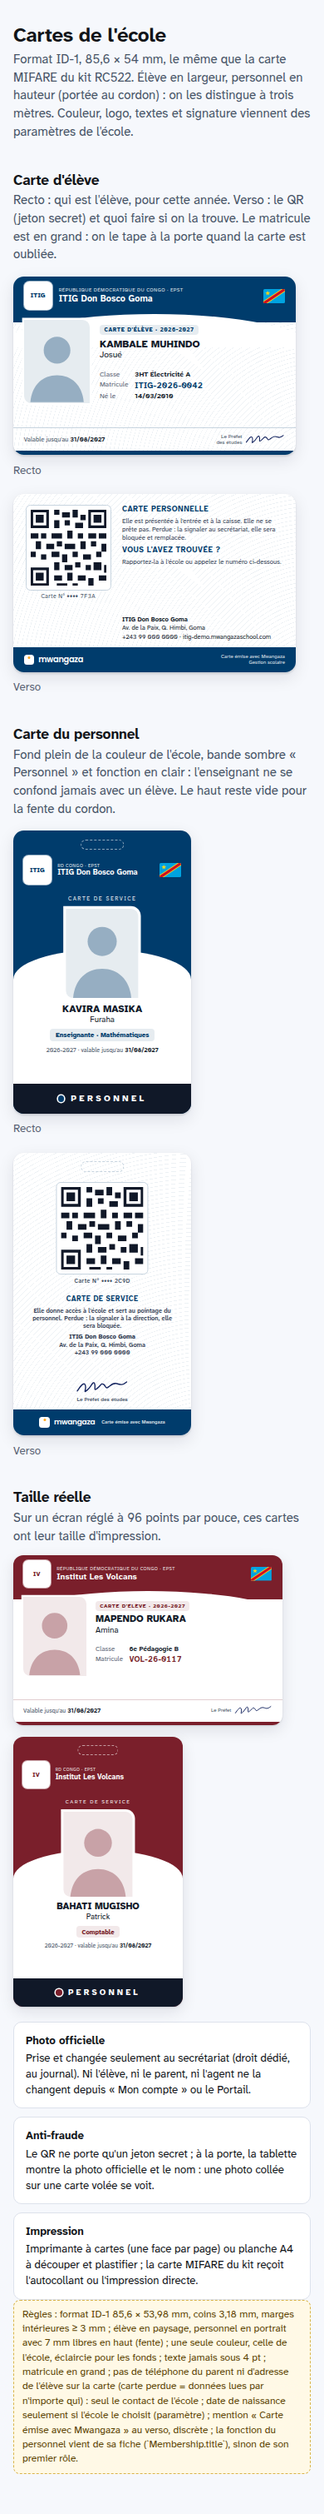
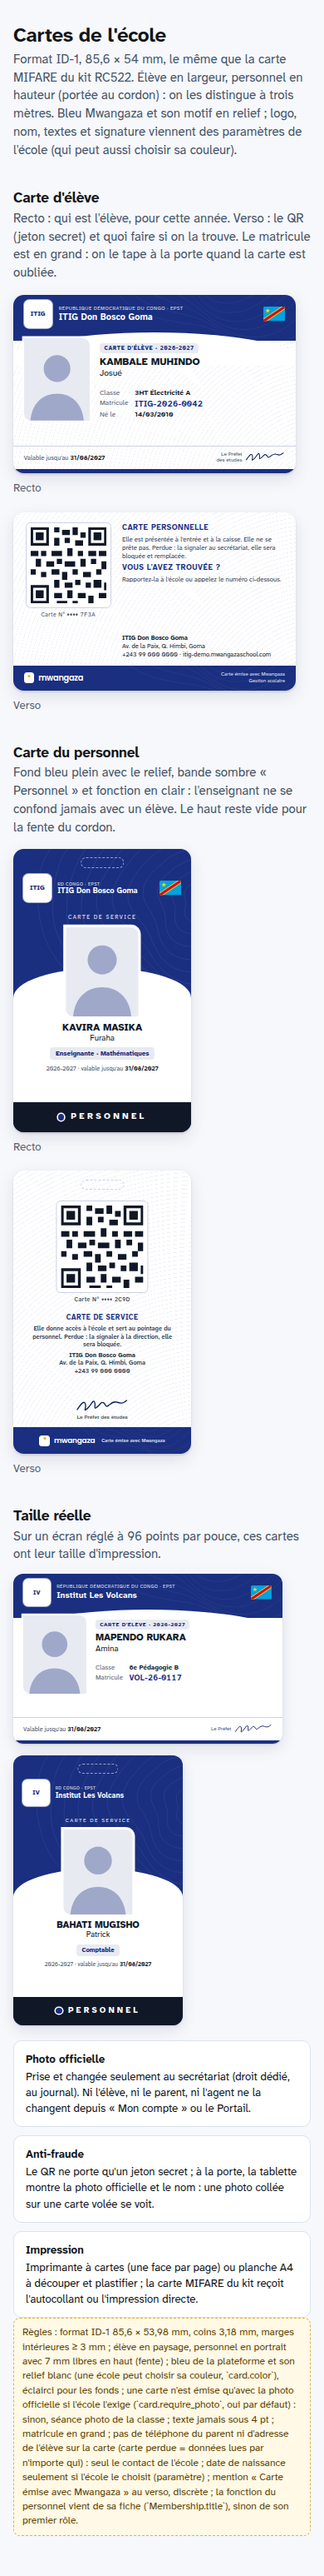
docs(lot-10): cartes au bleu Mwangaza, séance photo par classe, son et vibration réglables
Choix validés : photo sur la carte même sans consentement, matricule sans
section (clé de contrôle, MAT.1), profils au lot 12 (PROF.1).

Changed region(s): [[0.0308, 0.0, 0.9846, 0.9967]]

diff --git a/maquettes/gestion/cartes-seance-photo.html b/maquettes/gestion/cartes-seance-photo.html
@@ -1,0 +1,51 @@
+<!DOCTYPE html>
+<html lang="fr"><head><meta charset="utf-8"><meta name="viewport" content="width=device-width, initial-scale=1">
+<title>Séance photo — Mwangaza (maquette)</title>
+<link rel="stylesheet" href="../assets/styles.css"></head>
+<body><div class="app"><aside class="side">
+  <div class="brand"><span class="mark"></span><b>Mwangaza</b></div>
+  <div class="school"><b>ITIG Don Bosco</b>Goma · Année 2026-2027</div>
+  <nav class="nav"><div class="navlabel">Pilotage</div><a class="" href="tableau-de-bord.html"><svg class="ic" viewBox="0 0 24 24" fill="none" stroke="currentColor" stroke-width="1.8" stroke-linecap="round" stroke-linejoin="round"><path d="M3 10.5 12 3l9 7.5V21h-6v-6H9v6H3z"/></svg><span>Tableau de bord</span></a><div class="navlabel">Scolarité</div><a class="" href="eleves-liste.html"><svg class="ic" viewBox="0 0 24 24" fill="none" stroke="currentColor" stroke-width="1.8" stroke-linecap="round" stroke-linejoin="round"><circle cx="9" cy="8" r="3.5"/><path d="M2.5 20c.8-3.6 3.4-5.5 6.5-5.5s5.7 1.9 6.5 5.5"/><circle cx="17" cy="9" r="2.6"/><path d="M16.5 14.6c2.4.2 4.2 1.9 5 4.9"/></svg><span>Élèves</span></a><a class="" href="notes-saisie.html"><svg class="ic" viewBox="0 0 24 24" fill="none" stroke="currentColor" stroke-width="1.8" stroke-linecap="round" stroke-linejoin="round"><path d="M4 4.5A2.5 2.5 0 0 1 6.5 2H20v17H6.5A2.5 2.5 0 0 0 4 21.5z"/><path d="M4 19V4.5"/></svg><span>Notes et bulletins</span><span class="soon">V1.2</span></a><a class="on" href="cartes.html"><svg class="ic" viewBox="0 0 24 24" fill="none" stroke="currentColor" stroke-width="1.8" stroke-linecap="round" stroke-linejoin="round"><rect x="3" y="6" width="18" height="14" rx="2"/><path d="M3 10h18M16 15h2"/></svg><span>Cartes</span></a><a class="" href="presences-pointage-qr.html"><svg class="ic" viewBox="0 0 24 24" fill="none" stroke="currentColor" stroke-width="1.8" stroke-linecap="round" stroke-linejoin="round"><circle cx="12" cy="12" r="9"/><path d="M12 7v5l3 2"/></svg><span>Présences</span></a><div class="navlabel">Finances</div><a class="" href="caisse-encaissement.html"><svg class="ic" viewBox="0 0 24 24" fill="none" stroke="currentColor" stroke-width="1.8" stroke-linecap="round" stroke-linejoin="round"><rect x="2.5" y="6" width="19" height="12" rx="2"/><circle cx="12" cy="12" r="2.8"/><path d="M6 9.5v5M18 9.5v5"/></svg><span>Caisse</span></a><a class="" href="impayes.html"><svg class="ic" viewBox="0 0 24 24" fill="none" stroke="currentColor" stroke-width="1.8" stroke-linecap="round" stroke-linejoin="round"><path d="M12 3 2 20h20z"/><path d="M12 10v4.5M12 17.5v.1"/></svg><span>Impayés</span></a><a class="" href="frais-baremes.html"><svg class="ic" viewBox="0 0 24 24" fill="none" stroke="currentColor" stroke-width="1.8" stroke-linecap="round" stroke-linejoin="round"><path d="M3 12V4h8l10 10-8 8z"/><circle cx="7.5" cy="8" r="1.4"/></svg><span>Frais et barèmes</span></a><a class="" href="annulations.html"><svg class="ic" viewBox="0 0 24 24" fill="none" stroke="currentColor" stroke-width="1.8" stroke-linecap="round" stroke-linejoin="round"><path d="M9 14 4 9l5-5"/><path d="M4 9h10a6 6 0 0 1 0 12h-3"/></svg><span>Annulations</span><span class="count">2</span></a><a class="" href="clotures-caisse.html"><svg class="ic" viewBox="0 0 24 24" fill="none" stroke="currentColor" stroke-width="1.8" stroke-linecap="round" stroke-linejoin="round"><rect x="4.5" y="10.5" width="15" height="10" rx="2"/><path d="M8 10.5V7a4 4 0 0 1 8 0v3.5"/></svg><span>Clôtures de caisse</span></a><a class="" href="depenses.html"><svg class="ic" viewBox="0 0 24 24" fill="none" stroke="currentColor" stroke-width="1.8" stroke-linecap="round" stroke-linejoin="round"><path d="M4 7.5h14a2 2 0 0 1 2 2V18a2 2 0 0 1-2 2H5a1 1 0 0 1-1-1z"/><path d="M4 7.5 15 4v3.5M15.5 13.5h2"/></svg><span>Dépenses</span></a><a class="" href="budget.html"><svg class="ic" viewBox="0 0 24 24" fill="none" stroke="currentColor" stroke-width="1.8" stroke-linecap="round" stroke-linejoin="round"><path d="M4 4v16h16"/><path d="M8.5 16v-4M12.5 16V8M16.5 16v-6"/></svg><span>Budget et rapports</span></a><a class="" href="credits-eleves.html"><svg class="ic" viewBox="0 0 24 24" fill="none" stroke="currentColor" stroke-width="1.8" stroke-linecap="round" stroke-linejoin="round"><circle cx="12" cy="12" r="9"/><path d="M12 7.5v9M7.5 12h9"/></svg><span>Crédits d'élèves</span><span class="count">3</span></a><a class="" href="paie.html"><svg class="ic" viewBox="0 0 24 24" fill="none" stroke="currentColor" stroke-width="1.8" stroke-linecap="round" stroke-linejoin="round"><rect x="3" y="6" width="18" height="14" rx="2"/><path d="M3 10h18M16 15h2"/></svg><span>Personnel et paie</span><span class="soon">V1.1</span></a><div class="navlabel">Communication</div><a class="" href="annonces-personnel.html"><svg class="ic" viewBox="0 0 24 24" fill="none" stroke="currentColor" stroke-width="1.8" stroke-linecap="round" stroke-linejoin="round"><path d="M6 16V11a6 6 0 0 1 12 0v5l2 2H4z"/><path d="M10 20a2 2 0 0 0 4 0"/></svg><span>Annonces au personnel</span></a><a class="" href="calendrier.html"><svg class="ic" viewBox="0 0 24 24" fill="none" stroke="currentColor" stroke-width="1.8" stroke-linecap="round" stroke-linejoin="round"><rect x="3.5" y="5" width="17" height="15.5" rx="2"/><path d="M3.5 10h17M8 3v4M16 3v4"/></svg><span>Calendrier</span></a><a class="" href="annonces.html"><svg class="ic" viewBox="0 0 24 24" fill="none" stroke="currentColor" stroke-width="1.8" stroke-linecap="round" stroke-linejoin="round"><path d="M3 10v4l12 5V5z"/><path d="M15 9a3 3 0 0 1 0 6M6 14.5 7.5 20h3l-1.3-4.5"/></svg><span>Annonces</span></a><a class="" href="convocations.html"><svg class="ic" viewBox="0 0 24 24" fill="none" stroke="currentColor" stroke-width="1.8" stroke-linecap="round" stroke-linejoin="round"><path d="M6 3h9l4 4v14H6z"/><path d="M14 3v5h5M9 13h6M9 17h6"/></svg><span>Convocations</span></a><a class="" href="changements-coordonnees.html"><svg class="ic" viewBox="0 0 24 24" fill="none" stroke="currentColor" stroke-width="1.8" stroke-linecap="round" stroke-linejoin="round"><path d="M4 13h4l2 3h4l2-3h4"/><path d="M5.5 5h13L20 13v6H4v-6z"/></svg><span>Demandes des parents</span><span class="count">4</span></a><div class="navlabel">Paramètres</div><a class="" href="parametres-ecole.html"><svg class="ic" viewBox="0 0 24 24" fill="none" stroke="currentColor" stroke-width="1.8" stroke-linecap="round" stroke-linejoin="round"><circle cx="12" cy="12" r="3.2"/><path d="M12 2.5v3M12 18.5v3M2.5 12h3M18.5 12h3M5.3 5.3l2.1 2.1M16.6 16.6l2.1 2.1M5.3 18.7l2.1-2.1M16.6 7.4l2.1-2.1"/></svg><span>Paramètres de l'école</span></a><a class="" href="organisation-scolaire.html"><svg class="ic" viewBox="0 0 24 24" fill="none" stroke="currentColor" stroke-width="1.8" stroke-linecap="round" stroke-linejoin="round"><path d="M2 9 12 4l10 5-10 5z"/><path d="M6 11v5c0 1.5 3 3 6 3s6-1.5 6-3v-5"/></svg><span>Organisation scolaire</span></a><a class="" href="personnel-comptes.html"><svg class="ic" viewBox="0 0 24 24" fill="none" stroke="currentColor" stroke-width="1.8" stroke-linecap="round" stroke-linejoin="round"><circle cx="10" cy="8" r="3.5"/><path d="M3.5 20c.8-3.6 3.4-5.5 6.5-5.5 1.6 0 3 .4 4.2 1.2"/><path d="M18 14v6M15 17h6"/></svg><span>Comptes du personnel</span></a><a class="" href="roles-permissions.html"><svg class="ic" viewBox="0 0 24 24" fill="none" stroke="currentColor" stroke-width="1.8" stroke-linecap="round" stroke-linejoin="round"><path d="M12 3 4 6v6c0 5 3.5 8 8 9 4.5-1 8-4 8-9V6z"/></svg><span>Rôles et permissions</span></a><a class="" href="appareils-synchro.html"><svg class="ic" viewBox="0 0 24 24" fill="none" stroke="currentColor" stroke-width="1.8" stroke-linecap="round" stroke-linejoin="round"><path d="M20 11a8 8 0 0 0-14.3-4.3L4 8.5"/><path d="M4 4v4.5h4.5"/><path d="M4 13a8 8 0 0 0 14.3 4.3L20 15.5"/><path d="M20 20v-4.5h-4.5"/></svg><span>Appareils et synchro</span></a><a class="" href="journal-audit.html"><svg class="ic" viewBox="0 0 24 24" fill="none" stroke="currentColor" stroke-width="1.8" stroke-linecap="round" stroke-linejoin="round"><rect x="5" y="3.5" width="14" height="17" rx="2"/><path d="M9 3.5V6h6V3.5M9 11h6M9 15h4"/></svg><span>Journal d'audit</span></a></nav>
+  <div class="foot">Version 1.0 · Aide et guide</div>
+</aside><div class="main"><header class="top">
+  <div class="search"><svg class="ic" width="18" height="18" viewBox="0 0 24 24" fill="none" stroke="currentColor" stroke-width="1.8" stroke-linecap="round" stroke-linejoin="round"><circle cx="11" cy="11" r="7"/><path d="m20 20-4-4"/></svg><span>Rechercher un élève, un matricule, un reçu…</span><span class="kbd" style="margin-left:auto">Ctrl K</span></div>
+  <div class="sync online"><span class="dot"></span>En ligne · à jour</div>
+  <div class="user"><span class="hide-m" style="text-align:right"><b>Masika Furaha</b><br><span class="muted small">Secrétaire</span></span><span class="avatar">MF</span></div>
+</header><main class="content">
+<style>
+.shot{position:relative;width:100%;max-width:420px;aspect-ratio:4/5;background:#1d2230;border-radius:0 18px 0 18px;overflow:hidden;margin:0 auto}
+.shot .k-face{background:transparent;position:absolute;left:50%;top:13%;width:46%;aspect-ratio:3/4;transform:translateX(-50%);border:3px dashed rgba(255,255,255,.75);border-radius:50%}
+.shot .k-shoulders{background:transparent;position:absolute;left:14%;right:14%;bottom:-6%;height:30%;border:3px dashed rgba(255,255,255,.55);border-bottom:0;border-radius:50% 50% 0 0/100% 100% 0 0}
+.shot .tip{position:absolute;left:0;right:0;top:12px;text-align:center;color:#fff;font-size:.85rem}
+.shot .k-flip{position:absolute;right:12px;bottom:12px;width:44px;height:44px;border-radius:999px;background:rgba(255,255,255,.16);display:grid;place-items:center;color:#fff}
+.current{display:flex;align-items:center;justify-content:space-between;gap:12px;width:100%;max-width:420px;margin:0 auto 12px}
+.current b{display:block;font-size:1.3rem;line-height:1.2}
+.current .pill{white-space:nowrap}
+.actions{display:grid;grid-template-columns:minmax(0,2fr) minmax(0,1fr);gap:10px;width:100%;max-width:420px;margin:14px auto 0}
+.after{display:flex;gap:12px;align-items:center;width:100%;max-width:420px;margin:16px auto 0;padding-top:14px;border-top:1px solid var(--line-soft)}
+.after .thumb{width:56px;height:70px;border-radius:0 10px 0 10px;background:var(--lake-50);flex:none}
+.progress{height:8px;border-radius:999px;background:var(--line-soft);overflow:hidden;margin:6px 0 14px}
+.progress i{display:block;height:100%;width:69%;background:var(--lake);border-radius:999px}
+.list .now{background:var(--lake-50);border-radius:10px}
+</style>
+<div class="pagehead"><div><h1>Séance photo</h1><p>3HT Électricité A · 39 élèves · 27 photos prises, 12 à prendre</p></div><div class="row" style="gap:8px;flex-wrap:wrap"><span class="seg"><span class="on">Élèves</span><span>Personnel</span></span><select class="inp" style="width:auto;min-width:190px"><option>3HT Électricité A</option></select><a class="btn" href="cartes.html">Terminer</a></div></div>
+<div class="banner info" style="margin-bottom:16px"><svg class="ic" width="20" height="20" viewBox="0 0 24 24" fill="none" stroke="currentColor" stroke-width="1.8" stroke-linecap="round" stroke-linejoin="round"><circle cx="12" cy="12" r="9"/><path d="M12 8v5M12 16.5v.01"/></svg><span>12 élèves de cette classe n'ont pas de photo : leur carte ne peut pas être imprimée. Ordre de la liste de classe ; un absent est passé et reste « à prendre ».</span></div>
+<div class="grid" style="grid-template-columns:minmax(0,1.1fr) minmax(0,1fr)">
+<div class="card"><div class="bd">
+  <div class="current"><div><span class="small muted">28 sur 39</span><b>MAPENDO RUKARA Amina</b><span class="small muted">Matricule ITIG-2026-0117</span></div><span class="pill warn">À prendre</span></div>
+  <div class="shot"><div class="k-face"></div><div class="k-shoulders"></div><div class="tip">Visage dans l'ovale, fond clair, sans lunettes de soleil</div><span class="k-flip"><svg class="ic" width="20" height="20" viewBox="0 0 24 24" fill="none" stroke="currentColor" stroke-width="1.8" stroke-linecap="round" stroke-linejoin="round"><path d="M4 7h3l2-3h6l2 3h3v12H4z"/><path d="M9 13a3 3 0 0 0 5.6 1.5M15 11a3 3 0 0 0-5.6-1.5"/></svg></span></div>
+  <div class="actions"><a class="btn primary lg" href="#"><svg class="ic" width="18" height="18" viewBox="0 0 24 24" fill="none" stroke="currentColor" stroke-width="1.8" stroke-linecap="round" stroke-linejoin="round"><path d="M4 7h3l2-3h6l2 3h3v12H4z"/><circle cx="12" cy="13" r="3.5"/></svg>Prendre la photo</a><a class="btn lg" href="#">Absent, passer</a></div>
+  <div class="after"><span class="thumb"></span><div style="flex:1;min-width:0"><b>Kambale Muhindo Josué</b><br><span class="small muted">Photo gardée · envoyée</span></div><a class="btn sm ghost" href="#">Reprendre</a></div>
+</div></div>
+<div class="col">
+  <div class="card"><div class="bd"><div class="row" style="justify-content:space-between"><b>Avancement</b><span class="small muted">27 / 39</span></div><div class="progress"><i></i></div><div class="row" style="justify-content:space-between;flex-wrap:wrap;gap:8px"><span class="small muted">En attente d'envoi : 2 photos</span><span class="pill ok">En ligne</span></div></div></div>
+  <div class="card" style="margin-top:16px"><div class="hd"><h2>Élèves de la classe</h2></div><div class="bd list">
+    <div><span class="who"><span class="avatar">KJ</span><span><b>Kambale Muhindo Josué</b><br><span class="small muted">ITIG-2026-0042</span></span></span><span class="pill ok">Photo prise</span></div>
+    <div><span class="who"><span class="avatar">KN</span><span><b>Kavira Neema</b><br><span class="small muted">ITIG-2026-0091</span></span></span><span class="pill">Absent, passé</span></div>
+    <div class="now"><span class="who"><span class="avatar">MA</span><span><b>Mapendo Rukara Amina</b><br><span class="small muted">ITIG-2026-0117</span></span></span><span class="pill warn">En cours</span></div>
+    <div><span class="who"><span class="avatar">MP</span><span><b>Mumbere Paluku</b><br><span class="small muted">ITIG-2026-0120</span></span></span><span class="pill warn">À prendre</span></div>
+    <div><span class="who"><span class="avatar">SB</span><span><b>Safari Bahati</b><br><span class="small muted">ITIG-2026-0133</span></span></span><span class="pill">Photo de 2025</span></div>
+  </div></div>
+</div></div>
+<div class="note">Séance photo (6.1, demande du 2026-11-06) : droit `attendance.cards` ; une classe (ou le personnel) dans l'ordre de la liste ; la caméra est demandée au début avec une explication avant la question du navigateur, refusée : marche à suivre pour la réautoriser ; cadre 4:5 avec ovale du visage ; photo réduite sur l'appareil (600 × 750, JPEG) puis ré-encodée par le serveur (métadonnées et position retirées) ; « Garder » enregistre la photo officielle (au journal) et passe au suivant ; envoi dans l'ordre avec file d'attente si le réseau tombe ; une photo changée après l'émission de la carte la marque « à réimprimer » ; son et vibration à la prise selon les réglages de l'appareil ; l'élève, le parent ou l'agent ne changent jamais leur photo.</div>
+</main></div></div></body></html>

diff --git a/maquettes/gestion/cartes-modeles.html b/maquettes/gestion/cartes-modeles.html
@@ -5,8 +5,9 @@
 <style>
 /* Cartes au format ISO/IEC 7810 ID-1 (85,60 × 53,98 mm, coins de 3,18 mm) : celui de la carte
    blanche MIFARE du kit RC522, des imprimantes à cartes et des pochettes à plastifier. Tout est
-   en millimètres : le gabarit WeasyPrint reprend ces règles telles quelles. Seule couleur : celle
-   de l'école (--c, `card.color` ou `primary_color`), éclaircie par color-mix. */
+   en millimètres : le gabarit WeasyPrint reprend ces règles telles quelles. Couleur : le bleu de
+   la plateforme (`PlatformSettings`, bleu Mwangaza) avec son relief blanc ; une école peut choisir
+   la sienne (`card.color`). Éclaircie par color-mix pour les fonds. */
 @font-face{font-family:"Poppins";src:url(../assets/fonts/poppins-latin-600-normal.woff2) format("woff2");font-weight:600}
 .sheet{max-width:1240px;margin:0 auto;padding:28px 16px 48px}
 .sheet h1{font-size:1.6rem;margin:0 0 4px}
@@ -21,7 +22,7 @@
 @media (max-width:599px){.zoom{zoom:1.05}.pair{gap:18px}}
 .real{display:flex;gap:14px;align-items:flex-end;flex-wrap:wrap}
 
-.idc{--c:#003C6C;--on:#FFFFFF;--tint:color-mix(in srgb,var(--c) 10%,#fff);--soft:color-mix(in srgb,var(--c) 22%,#fff);
+.idc{--c:#1A2F80;--relief:url(../assets/relief.svg);--on:#FFFFFF;--tint:color-mix(in srgb,var(--c) 10%,#fff);--soft:color-mix(in srgb,var(--c) 22%,#fff);
   position:relative;width:85.6mm;height:53.98mm;border-radius:3.18mm;overflow:hidden;background:#fff;color:#101828;
   font-family:"Atkinson Hyperlegible Next",Arial,sans-serif;font-size:6.4pt;line-height:1.25;box-shadow:0 1px 2px rgba(16,24,40,.12),0 6px 18px rgba(16,24,40,.10);flex:none}
 .idc.portrait{width:53.98mm;height:85.6mm}
@@ -38,7 +39,7 @@
 .sig{width:16mm;height:5mm}
 
 /* Élève, recto (paysage) */
-.st .band{position:absolute;left:0;right:0;top:0;height:14mm;background:var(--c);color:var(--on);display:flex;gap:2mm;align-items:center;padding:0 3.2mm 2.2mm}
+.st .band{position:absolute;left:0;right:0;top:0;height:14mm;background:var(--c) var(--relief) center/cover;color:var(--on);display:flex;gap:2mm;align-items:center;padding:0 3.2mm 2.2mm}
 .st .band .hl{flex:1;min-width:0}
 .st .band small{display:block;font-size:4.3pt;letter-spacing:.07em;text-transform:uppercase;opacity:.85}
 .st .band b{display:block;font-size:7.6pt;letter-spacing:.01em;white-space:nowrap;overflow:hidden;text-overflow:ellipsis}
@@ -66,12 +67,12 @@
 .back h4{margin:0;font-size:6.6pt;color:var(--c);text-transform:uppercase;letter-spacing:.05em}
 .back p{margin:0;font-size:5.6pt;color:#344054}
 .back .contact{margin-top:auto;font-size:5.4pt;color:#101828;line-height:1.35}
-.back .k-bar{position:absolute;left:0;right:0;bottom:0;height:7.6mm;background:var(--c);color:var(--on);display:flex;align-items:center;justify-content:space-between;padding:0 3.2mm}
+.back .k-bar{position:absolute;left:0;right:0;bottom:0;height:7.6mm;background:var(--c) var(--relief) center/cover;color:var(--on);display:flex;align-items:center;justify-content:space-between;padding:0 3.2mm}
 .back .k-bar .mz{font-size:7pt}
 .back .k-bar small{font-size:4.4pt;opacity:.85;text-align:right;line-height:1.2}
 
 /* Personnel, recto (portrait) : fond plein de la couleur de l'école, bande « PERSONNEL ». */
-.sf{background:var(--c);color:var(--on)}
+.sf{background:var(--c) var(--relief) center/cover;color:var(--on)}
 .slot{position:absolute;left:50%;top:2.6mm;width:13mm;height:3.2mm;transform:translateX(-50%);border:.25mm dashed rgba(255,255,255,.55);border-radius:1.6mm}
 .sf .hd{position:absolute;left:3mm;right:3mm;top:7.6mm;display:flex;align-items:center;gap:1.8mm}
 .sf .hd .hl{flex:1;min-width:0;line-height:1.15}
@@ -97,7 +98,7 @@
 .sb h4{margin:0;font-size:6.2pt;color:var(--c);text-transform:uppercase;letter-spacing:.05em}
 .sb p{margin:0;font-size:5.3pt;color:#344054}
 .sb .signed{margin-top:auto;display:flex;flex-direction:column;align-items:center;font-size:4.6pt;color:#475467}
-.sb .k-bar{position:absolute;left:0;right:0;bottom:0;height:8mm;background:var(--c);color:var(--on);display:flex;align-items:center;justify-content:center;gap:2mm}
+.sb .k-bar{position:absolute;left:0;right:0;bottom:0;height:8mm;background:var(--c) var(--relief) center/cover;color:var(--on);display:flex;align-items:center;justify-content:center;gap:2mm}
 .sb .k-bar .mz{font-size:6.4pt}
 .sb .k-bar small{font-size:4.2pt;opacity:.85}
 
@@ -108,7 +109,7 @@
 <body>
 <main class="sheet">
   <h1>Cartes de l'école</h1>
-  <p class="lead">Format ID-1, 85,6 × 54 mm, le même que la carte MIFARE du kit RC522. Élève en largeur, personnel en hauteur (portée au cordon) : on les distingue à trois mètres. Couleur, logo, textes et signature viennent des paramètres de l'école.</p>
+  <p class="lead">Format ID-1, 85,6 × 54 mm, le même que la carte MIFARE du kit RC522. Élève en largeur, personnel en hauteur (portée au cordon) : on les distingue à trois mètres. Bleu Mwangaza et son motif en relief ; logo, nom, textes et signature viennent des paramètres de l'école (qui peut aussi choisir sa couleur).</p>
 
   <svg width="0" height="0" style="position:absolute" aria-hidden="true">
     <defs>
@@ -159,7 +160,7 @@
   </div>
 
   <h2>Carte du personnel</h2>
-  <p class="lead">Fond plein de la couleur de l'école, bande sombre « Personnel » et fonction en clair : l'enseignant ne se confond jamais avec un élève. Le haut reste vide pour la fente du cordon.</p>
+  <p class="lead">Fond bleu plein avec le relief, bande sombre « Personnel » et fonction en clair : l'enseignant ne se confond jamais avec un élève. Le haut reste vide pour la fente du cordon.</p>
   <div class="pair zoom">
     <figure>
       <div class="idc portrait sf">
@@ -199,14 +200,14 @@
   <h2>Taille réelle</h2>
   <p class="lead">Sur un écran réglé à 96 points par pouce, ces cartes ont leur taille d'impression.</p>
   <div class="real">
-    <div class="idc st" style="--c:#7A1F2B">
+    <div class="idc st">
       <div class="band"><span class="logo">IV</span><div class="hl"><small>République démocratique du Congo · EPST</small><b>Institut Les Volcans</b></div><svg class="flag"><use href="#drc"/></svg></div>
       <div class="arch"></div>
       <div class="body"><div class="photo" style="color:var(--c)"><svg><use href="#silhouette"/></svg></div><div class="k-who"><span class="k-tag">Carte d'élève · 2026-2027</span><div class="name">Mapendo Rukara</div><div class="first">Amina</div><dl class="kv"><dt>Classe</dt><dd>6e Pédagogie B</dd><dt>Matricule</dt><dd class="mat">VOL-26-0117</dd></dl></div></div>
       <div class="foot"><span class="valid">Valable jusqu'au <b>31/08/2027</b></span><span class="signed">Le Préfet<svg class="sig"><use href="#signature"/></svg></span></div>
       <div class="stripe"></div>
     </div>
-    <div class="idc portrait sf" style="--c:#7A1F2B">
+    <div class="idc portrait sf">
       <div class="slot"></div>
       <div class="hd"><span class="logo">IV</span><div class="hl"><small>RD Congo · EPST</small><b>Institut Les Volcans</b></div></div>
       <div class="kind">Carte de service</div><div class="white"></div>
@@ -222,6 +223,6 @@
     <div><b>Impression</b>Imprimante à cartes (une face par page) ou planche A4 à découper et plastifier ; la carte MIFARE du kit reçoit l'autocollant ou l'impression directe.</div>
   </div>
 
-  <div class="note">Règles : format ID-1 85,6 × 53,98 mm, coins 3,18 mm, marges intérieures ≥ 3 mm ; élève en paysage, personnel en portrait avec 7 mm libres en haut (fente) ; une seule couleur, celle de l'école, éclaircie pour les fonds ; texte jamais sous 4 pt ; matricule en grand ; pas de téléphone du parent ni d'adresse de l'élève sur la carte (carte perdue = données lues par n'importe qui) : seul le contact de l'école ; date de naissance seulement si l'école le choisit (paramètre) ; mention « Carte émise avec Mwangaza » au verso, discrète ; la fonction du personnel vient de sa fiche (`Membership.title`), sinon de son premier rôle.</div>
+  <div class="note">Règles : format ID-1 85,6 × 53,98 mm, coins 3,18 mm, marges intérieures ≥ 3 mm ; élève en paysage, personnel en portrait avec 7 mm libres en haut (fente) ; bleu de la plateforme et son relief blanc (une école peut choisir sa couleur, `card.color`), éclairci pour les fonds ; une carte n'est émise qu'avec la photo officielle si l'école l'exige (`card.require_photo`, oui par défaut) : sinon, séance photo de la classe ; texte jamais sous 4 pt ; matricule en grand ; pas de téléphone du parent ni d'adresse de l'élève sur la carte (carte perdue = données lues par n'importe qui) : seul le contact de l'école ; date de naissance seulement si l'école le choisit (paramètre) ; mention « Carte émise avec Mwangaza » au verso, discrète ; la fonction du personnel vient de sa fiche (`Membership.title`), sinon de son premier rôle.</div>
 </main>
 </body></html>

diff --git a/maquettes/gestion/presences-pointage-qr.html b/maquettes/gestion/presences-pointage-qr.html
@@ -30,6 +30,12 @@
 <div class="grid" style="grid-template-columns:minmax(0,1.1fr) minmax(0,1fr)"><div class="card"><div class="bd col" style="align-items:center"><div class="camera"><i></i><span>Présentez la carte devant la caméra</span></div>
 <div class="banner ok" style="width:100%;font-size:1rem"><svg class="ic" width="22" height="22" viewBox="0 0 24 24" fill="none" stroke="currentColor" stroke-width="1.8" stroke-linecap="round" stroke-linejoin="round"><path d="M4.5 12.5l5 5 10-11"/></svg><span><b>Josué KAMBALE</b> · 2HT Électricité A · arrivé à 07:31</span></div></div></div>
 <div class="col"><div class="grid" style="grid-template-columns:repeat(auto-fit,minmax(min(100%,180px),1fr));margin-bottom:16px"><div class="card kpi"><div class="lbl">Arrivés</div><div class="val" style="color:var(--ok)">842</div><div class="sub"></div></div><div class="card kpi"><div class="lbl">En retard</div><div class="val" style="color:var(--warn)">37</div><div class="sub">après 07:45</div></div><div class="card kpi"><div class="lbl">En attente d'envoi</div><div class="val" style="">0</div><div class="sub">tout est synchronisé</div></div></div>
-<div class="card"><div class="hd"><h2>Derniers passages</h2></div><div class="bd list"><div><span class="who"><span class="avatar">JO</span><span><b>Josué Kambale</b><br><span class="small muted">2HT Électricité A</span></span></span><span><span class="small muted">07:31</span> <span class="pill ok">Arrivé</span></span></div><div><span class="who"><span class="avatar">AM</span><span><b>Amina Mapendo</b><br><span class="small muted">2HT Électricité A</span></span></span><span><span class="small muted">07:52</span> <span class="pill warn">En retard</span></span></div><div><span class="who"><span class="avatar">CA</span><span><b>Carte révoquée</b><br><span class="small muted">—</span></span></span><span><span class="small muted">07:53</span> <span class="pill due">Refusée</span></span></div><div><span class="who"><span class="avatar">NE</span><span><b>Neema Kavira</b><br><span class="small muted">4HT Informatique</span></span></span><span><span class="small muted">07:54</span> <span class="pill ok">Arrivé</span></span></div></div></div></div></div>
-<div class="note">Chaque lecture : son + couleur (vert arrivé, orange retard, rouge refusé) et la carte lue est comparée à la liste gardée sur l'appareil : sans réseau, les passages sont gardés puis envoyés sans doublon (indicateur « N en attente »). Le mode borne agrandit le résultat (nom, photo) pour un surveillant à la porte. Le QR contient un jeton aléatoire, jamais le matricule. Un même élève lu deux fois le même jour : « déjà passé », pas de seconde ligne.</div>
+<div class="card"><div class="hd"><h2>Derniers passages</h2></div><div class="bd list"><div><span class="who"><span class="avatar">JO</span><span><b>Josué Kambale</b><br><span class="small muted">2HT Électricité A</span></span></span><span><span class="small muted">07:31</span> <span class="pill ok">Arrivé</span></span></div><div><span class="who"><span class="avatar">AM</span><span><b>Amina Mapendo</b><br><span class="small muted">2HT Électricité A</span></span></span><span><span class="small muted">07:52</span> <span class="pill warn">En retard</span></span></div><div><span class="who"><span class="avatar">CA</span><span><b>Carte révoquée</b><br><span class="small muted">—</span></span></span><span><span class="small muted">07:53</span> <span class="pill due">Refusée</span></span></div><div><span class="who"><span class="avatar">NE</span><span><b>Neema Kavira</b><br><span class="small muted">4HT Informatique</span></span></span><span><span class="small muted">07:54</span> <span class="pill ok">Arrivé</span></span></div></div></div>
+<div class="card" style="margin-top:16px"><div class="hd"><h2>Cet appareil</h2><a class="btn sm" href="#">Tester les signaux</a></div><div class="bd list">
+<div><span><b>Son</b><br><span class="small muted">Haut-parleur de la tablette ; volume du téléphone</span></span><span class="toggle on"></span></div>
+<div><span><b>Vibration</b><br><span class="small muted">Android seulement (l'iPhone ne la permet pas aux pages web)</span></span><span class="toggle on"></span></div>
+<div><span><b>Écran toujours allumé</b><br><span class="small muted">Pendant le pointage et la séance photo</span></span><span class="toggle on"></span></div>
+<div><span><b>Caméra</b><br><span class="small muted">Autorisée · caméra arrière</span></span><span class="pill ok">Accès donné</span></div>
+</div><div class="ft small muted">1 bip aigu : arrivé · 2 notes descendantes : en retard · 2 bips courts : déjà passé · 2 bips longs : carte refusée. Mêmes sons que les lecteurs de cartes (lot 16).</div></div></div></div>
+<div class="note">Chaque lecture : son + couleur (vert arrivé, orange retard, rouge refusé) et la carte lue est comparée à la liste gardée sur l'appareil : sans réseau, les passages sont gardés puis envoyés sans doublon (indicateur « N en attente »). Le mode borne agrandit le résultat (nom, photo) pour un surveillant à la porte. Le QR contient un jeton aléatoire, jamais le matricule. Un même élève lu deux fois le même jour : « déjà passé », pas de seconde ligne. Son, vibration et écran allumé : réglés par appareil (activables ou non, gardés sur l'appareil), sons produits par la page (aucun fichier, marchent hors ligne), même catalogue que les lecteurs (`docs/specs/equipements.md` § 2.3 bis) ; le son s'active au premier appui sur « Commencer » (règle des navigateurs) ; la caméra est demandée au début, après une phrase qui dit pourquoi, refusée : marche à suivre et saisie du matricule ; à la lecture, la photo officielle s'affiche en grand (vignette gardée sur l'appareil) pour la comparer au visage.</div>
 </main></div></div></body></html>

diff --git a/docs/claude/plans/lot-10.md b/docs/claude/plans/lot-10.md
@@ -3,8 +3,8 @@
 **But** : chaque élève et chaque membre du personnel a une carte (QR) imprimée au nom de l'école ; à l'entrée, une tablette ou un téléphone enregistré la lit (même sans réseau) ; la direction suit présents, retards, absents, corrige au journal ; le parent est prévenu et justifie l'absence depuis le Portail. Tâches : 6.1 (#41), 6.3 (#138), 6.5 (#139), 6.6 (#51), A.5.
 
 ## Parties (une conversation chacune)
-- [ ] ① Serveur — Opus, en deux sous-parties : [x] **a** carte (émission, révocation, PDF carte et planche A4) + pointage idempotent (fait le 2026-11-06 : app `attendance`, 4 droits, réglages `card` / `attendance`, `POST …/cards/print/`, `GET /api/attendance/roster/`, opération `attendance.scan`) ; [x] **b** suivi, corrections, justifications, notifications et alerte, `make demo` (fait le 2026-11-06 : `follow.py` calcule tout à la demande, `corrections.py`, `reports.py`, `parents.py` ; travail `absences` du planificateur ; 8 points d'API Gestion, 2 Portail) ; [ ] **c** cartes refaites d'après `maquettes/gestion/cartes-modeles.html` (2026-11-06) : élève en paysage, personnel en portrait (fente du cordon, bande « Personnel »), photo officielle du personnel `Membership.photo` et fonction `Membership.title` (droit `staff.manage`, au journal), photo de l'élève imprimée dès qu'elle existe, date de naissance au choix de l'école, « Carte émise avec Mwangaza » au verso — Sonnet
-- [ ] ② Écrans : modèle de carte et impression (sélection multiple A.5), pointage caméra / borne hors ligne, suivi et corrections, Portail (justifier) — Sonnet
+- [ ] ① Serveur — Opus, en deux sous-parties : [x] **a** carte (émission, révocation, PDF carte et planche A4) + pointage idempotent (fait le 2026-11-06 : app `attendance`, 4 droits, réglages `card` / `attendance`, `POST …/cards/print/`, `GET /api/attendance/roster/`, opération `attendance.scan`) ; [x] **b** suivi, corrections, justifications, notifications et alerte, `make demo` (fait le 2026-11-06 : `follow.py` calcule tout à la demande, `corrections.py`, `reports.py`, `parents.py` ; travail `absences` du planificateur ; 8 points d'API Gestion, 2 Portail) ; [ ] **c** cartes refaites d'après `maquettes/gestion/cartes-modeles.html` (2026-11-06) : élève en paysage, personnel en portrait (fente du cordon, bande « Personnel »), **bleu de la plateforme et son relief** (`card.color` vide = couleur de la plateforme), photo officielle du personnel `Membership.photo` et fonction `Membership.title`, photo de l'élève imprimée même sans `photo_consent` (choix 1A), `card.require_photo` (oui par défaut : pas de carte sans photo), service de photo officielle (droit `attendance.cards`, au journal, « à réimprimer » si la photo change après l'émission), date de naissance au choix de l'école, « Carte émise avec Mwangaza » au verso — Sonnet
+- [ ] ② Écrans : modèle de carte et impression (sélection multiple A.5), **séance photo par classe** (`cartes-seance-photo.html`), pointage caméra / borne hors ligne avec **son, vibration et écran allumé réglables par appareil** (mêmes signaux que les lecteurs, `equipements.md` § 2.3 bis), photo officielle montrée à la lecture, suivi et corrections, Portail (justifier) — Sonnet
 - [ ] ③ Fin du lot : Playwright hors-ligne, captures 390 / 1440, `/verifier`, tous les `.md`, aide, PR — Sonnet
 
 ## Décisions (regard senior)
@@ -12,7 +12,8 @@
 - Une seule séance « entrée » par jour et par école (créée au premier pointage) ; `AttendanceSession.course` vide. Appel en classe, lecteurs, NFC : lot 16 (EQP.4), même table. Pointage ajouté seulement ; correction = ligne au journal + `AuditLog`.
 - Absents = calculés à la demande (élèves inscrits sans pointage ni justification, jours de cours hors congés `SchoolEvent`), jamais stockés. Une tâche par école et par jour (après l'heure limite) prévient les parents et compte les absences non justifiées pour l'alerte (seuil X réglé par l'école).
 - Photo officielle (2026-11-06, demande de l'utilisateur) : prise et changée seulement par l'école (élève : `students.edit` ; personnel : `staff.manage`), au journal ; jamais par la personne (ni « Mon compte » ni Portail). À la porte, la tablette montre la photo officielle (vignette en cache, partie ②) : une photo collée sur une carte volée se voit. Format ID-1 85,6 × 53,98 mm = carte MIFARE du kit RC522. App Django **`attendance`** (pas `equipment` : c'est un module vendu ; le lot 16 y ajoute ses séances). « Perdues ce trimestre » → **cette année** (les périodes n'ont pas de dates). Imprimer = émettre : le PDF est rangé 10 min à son adresse (`printing.prepare_at`).
-- Lecture caméra : `BarcodeDetector` si disponible ; iPhone n'en a pas → **bibliothèque de lecture QR = nouvelle dépendance, à demander avant la partie ②**.
+- Lecture caméra : `BarcodeDetector` si disponible ; iPhone n'en a pas → **bibliothèque de lecture QR = nouvelle dépendance, demandée le 2026-11-06** (proposée : `barcode-detector`, MIT, l'API standard partout, chargée seulement sans API native).
+- Choix du 2026-11-06 (recommandés, validés) : photo de l'élève sur la carte même sans consentement (1A) ; pas de section dans le matricule, clé de contrôle seulement (2A, MAT.1) ; profils au lot 12 (3A, PROF.1). Son et vibration : Web Audio et `navigator.vibrate` (aucun fichier, aucune dépendance), son débloqué au premier appui, vibration cachée si l'appareil ne la permet pas ; caméra demandée après une phrase qui dit pourquoi.
 
 ## Hors périmètre
 NFC, lecteurs ESP32, appel en classe, séances de cours (lot 16) ; paie liée aux présences du personnel (lot 12).

diff --git a/docs/05-plan-de-travail.md b/docs/05-plan-de-travail.md
@@ -100,7 +100,7 @@ Elles manquaient pour une V1 complète. Les autres tâches des lots gardent leur
 ## 2 quater. Tâches ajoutées le 2026-11-06 (demande de l'utilisateur pendant le lot 10)
 
 - [ ] **PROF.1** Profils de tous les utilisateurs *(P1, M, 🤖, lot 12 ①)* — une page « Mon profil » cohérente dans les trois applications (Gestion, Portail, console) : ce que la personne change elle-même (langue, mot de passe, double authentification, téléphone et e-mail **vérifiés par un code**, notifications, appareils) et ce qu'elle voit sans pouvoir le changer (nom, **photo officielle**, fonction, rôles, école) avec « à changer au secrétariat » ; demande de correction envoyée à l'école (comme les changements de coordonnées des parents) ; parents et, au lot 13, élèves. Maquettes d'abord, d'après les grands sites (GitHub, Google, Stripe).
-- [ ] **MAT.1** Matricule plus sûr *(P2, S, 🤖, lot 14 ①)* — moteur actuel gardé (déterministe, hors ligne, jamais d'IA) ; variable `{C}` : **clé de contrôle** d'un signe (ISO 7064 mod 97-10 réduit, ou Luhn) qui refuse une faute de frappe à la porte et à la caisse ; `{SEC}` (code de section : cycle du niveau pour l'éducation de base, section de l'option pour les humanités) **seulement si l'utilisateur le valide** (`06`, 2026-11-06) ; matricule figé à l'attribution (jamais recalculé quand l'élève change d'option) ; matricule existant toujours gardé (import, saisie du préfet : déjà le cas).
+- [ ] **MAT.1** Matricule plus sûr *(P2, S, 🤖, lot 14 ①)* — moteur actuel gardé (déterministe, hors ligne, jamais d'IA) ; variable `{C}` : **clé de contrôle** d'un signe (ISO 7064 mod 97-10 réduit, ou Luhn) qui refuse une faute de frappe à la porte et à la caisse ; pas de `{SEC}` (choix de l'utilisateur, 2026-11-06 : la section change quand l'élève passe en humanités, le matricule ne doit pas changer) ; matricule figé à l'attribution (jamais recalculé quand l'élève change d'option) ; matricule existant toujours gardé (import, saisie du préfet : déjà le cas).
 - [ ] **EQ.4** Cartes de l'équipe Mwangaza *(P2, M, 🤖, lot 15)* — d'après `maquettes/marque/cartes-mwangaza.html` : carte de visite (QR vCard, sans serveur) et badge porté au cordon, imprimés depuis la console au format ID-1 ; QR du badge = page publique de vérification à jeton révocable (nom, photo, fonction, « fait partie de l'équipe » ou non) ; tout vient des paramètres de la plateforme et du compte de l'équipe.
 
 ## 2 ter. Équipements : tâches ajoutées le 2026-11-03
@@ -519,8 +519,8 @@ Les numéros des tâches existantes restent les mêmes. **Depuis le 2026-10-29, 
 
 ### V1.5 — Carte et présences (QR d'abord, NFC en option)
 
-- [ ] **6.1** Carte de l'élève et du personnel : modèle réglé par l'école, PDF carte et planche A4, jeton secret dans le QR, révocable, carte perdue remplacée ; refaite le 2026-11-06 (élève en paysage, personnel en portrait, format ID-1 de la carte MIFARE, photo officielle gérée par l'école seule, mention Mwangaza) *(P1, M)*
-- [ ] **6.3** Pointage par téléphone ou tablette enregistrés, caméra QR, mode borne, hors ligne *(P1, M)*
+- [ ] **6.1** Carte de l'élève et du personnel : modèle réglé par l'école, PDF carte et planche A4, jeton secret dans le QR, révocable, carte perdue remplacée ; refaite le 2026-11-06 (élève en paysage, personnel en portrait, format ID-1 de la carte MIFARE, photo officielle gérée par l'école seule, bleu de la plateforme et son relief, pas de carte sans photo si l'école l'exige, **séance photo par classe**, mention Mwangaza) *(P1, M)*
+- [ ] **6.3** Pointage par téléphone ou tablette enregistrés, caméra QR, mode borne, hors ligne ; son, vibration et écran allumé réglables par appareil, mêmes signaux que les lecteurs (2026-11-06) *(P1, M)*
 - [ ] **6.5** Suivi des présences, corrections au journal, rapports, taux au tableau de bord *(P1, M)*
 - [ ] **6.6** Présences et parents : notifications, justification dans le Portail, alerte après X absences *(P1, M)*
 - [ ] **6.2** Liaison des cartes NFC (NTAG215 / 216) *(P2, M)* — reprise par **EQP.4** (lot 16, 2026-11-03)

diff --git a/maquettes/README.md b/maquettes/README.md
@@ -98,6 +98,7 @@ Domaine retenu le 2026-09-26 : `mwangaza.school`. Les maquettes affichent encore
 | Cartes (élèves et personnel) | `gestion/cartes.html` | V1.5 | 6.1 · A.5 | dessinée par Claude au lot 10 (à valider) : liste avec sélection, aperçu recto-verso, émettre / déclarer perdue, onglet modèle |
 | Imprimer les cartes | `gestion/cartes-impression.html` | V1.5 | 6.1 | dessinée par Claude au lot 10 : planche A4 (10 cartes), jetons montrés une seule fois |
 | Modèles des cartes (document) | `gestion/cartes-modeles.html` | V1.5 | 6.1 | dessinée par Claude le 2026-11-06 à la demande de l'utilisateur : format ID-1 85,6 × 53,98 mm (carte MIFARE du kit RC522), élève en paysage, personnel en portrait (fente du cordon, bande « Personnel »), couleur de l'école seule, photo officielle, « Carte émise avec Mwangaza » |
+| Séance photo | `gestion/cartes-seance-photo.html` | V1.5 | 6.1 | dessinée par Claude le 2026-11-06 à la demande de l'utilisateur : une classe ou le personnel dans l'ordre, cadre 4:5 avec ovale, prendre / absent, file d'envoi ; pas de carte sans photo si l'école l'exige |
 | Cartes de la plateforme | `marque/cartes-mwangaza.html` | V1 | EQ.4 | dessinée par Claude le 2026-11-06 : carte de visite (QR vCard) et badge vérifiable de l'équipe, format ID-1, livre de marque piste A |
 | Suivi des présences | `gestion/presences-suivi.html` | V1.5 | 6.5 | dessinée par Claude au lot 10 (à valider) : par classe, absents à suivre, personnel, journal des corrections |
 | Saisie des notes | `gestion/notes-saisie.html` | V1.2 | 8.2.1 → 8.2.3 | fournie, complétée par Claude en 8.2.1 (à valider) : rangée « Évaluations » (ajouter, renommer, retirer, chacune avec son maximum), boîte « Évaluation », une carte par élève au téléphone ; codée en 8.2.1 sans le bandeau de date limite ni « Envoyer pour validation » (8.2.2), ni « Enregistré sur l'appareil · synchronisé » (8.2.3) ; pied de la carte collé en bas de l'écran (longue page au téléphone) ; 8.4.0 : sans devoirs, la rangée « Évaluations » disparaît et la feuille n'a qu'une colonne « Total » (codé sans maquette dédiée : même tableau) ; colonne « Saisie » ajoutée à « Cours et maxima » (liste : selon l'école, devoirs détaillés, total de la période) ; NB.1 : « Envoyer et signer » (boîte de confirmation) au lieu de « Envoyer pour validation », bandeau « Fiche renvoyée » avec les remarques du directeur des études, plus de « Valider » ni « Rouvrir » ici ; seuls les cours de l'enseignant (ou tous en total pour le secrétariat) ; NB.7 : tableau figé (titres et colonne « Élève ») et qui saisit une fiche rendue sur papier, en note |

diff --git a/A-FAIRE.md b/A-FAIRE.md
@@ -11,6 +11,7 @@ Dernière mise à jour : 2026-10-21 (dépôt repassé en public jusqu'à la fin 
 
 | # | Action | Temps | Fait |
 |:-:|---|---|:-:|
+| 000 sexies | **Lot 10 : bibliothèque de lecture des QR (2026-11-06, 1 min)** — l'iPhone ne lit pas les QR dans une page web sans aide. Claude propose `barcode-detector` (licence MIT, maintenue) : elle donne à tous les navigateurs la fonction de lecture standard ; un Android qui l'a déjà ne télécharge rien de plus. Réponds « oui » (ou propose autre chose) avant la partie ② du lot 10. | 1 min | [ ] |
 | 000 quinquies | **Protéger `main` (2026-11-06, 2 min)** — aujourd'hui on peut fusionner une PR rouge ou pousser directement sur `main` ; Claude n'a pas le droit de changer ce réglage. Sur GitHub : *Settings* → *Branches* → *Add branch ruleset* (ou *Add classic branch protection rule*) pour `main` : « Require a pull request before merging » (0 approbation), « Require status checks to pass » avec **Fichiers changés**, **Backend (ruff, pytest, OpenAPI)**, **Frontend (ESLint, Prettier, types, Vitest, build)**, **Parcours dans le navigateur (Playwright)**, « Block force pushes », pas de suppression ; ne pas cocher « Do not allow bypassing » : tu pourras passer outre en urgence. Ou dans le terminal : `! gh api -X PUT repos/GUELORD-MWENDERWA/mwangaza/branches/main/protection --input infra/github/protection-main.json`. Ensuite, une PR dont un contrôle est rouge ne se fusionne plus par erreur. | 2 min | |
 | 000 ter | **Lot 2 : coordonnées de la plateforme** — console https://admin.mwangazaschool.com/identity : téléphone et WhatsApp +243 856 725 368, e-mails `contact@` et `support@mwangazaschool.com` (à confirmer), adresse Goma, Nord-Kivu, quartier Katoyi, Afia Bora, rue Scout ; puis ajoute les partenaires (console › Site) et choisis les deux écoles de référence. | 10 min | [ ] |
 | 000 quater | **Lot 5 — Console finie (2026-11-04)** : relire et fusionner la PR, puis `make deploy`. Ensuite, dans la console, « Facturation » → offres : ce sont maintenant les **forfaits de départ** proposés à la création d'une école (« Sur mesure » en plus) ; vérifier que leurs modules sont les bons | 10 min | [ ] |

diff --git a/docs/06-suivi.md b/docs/06-suivi.md
@@ -67,7 +67,8 @@ Q1 à Q11 tranchées le 2026-09-26, Q13 et Q14 le 2026-10-10 (voir le journal). 
 ### 2026-11-06 — Lot 10, partie ① b : suivi des présences, parents ; cartes et matricule revus
 - Fait : absents calculés à la demande (corrections au journal, justifications, congés), écran du jour par classe, absents à suivre, personnel, journal, rapport Excel ; Portail : présences de l'enfant et justification (certificat photo ou PDF) ; parents prévenus une fois le matin, direction alertée au seuil ; `make demo`.
 - Demande de l'utilisateur : cartes refaites (élève paysage, personnel portrait, format ID-1 de la carte MIFARE du kit RC522, mention Mwangaza), photo officielle gérée par l'école seule, profils de tous les utilisateurs, matricule (analyse et propositions), carte de visite et badge de l'équipe Mwangaza. Maquettes : `gestion/cartes-modeles.html`, `marque/cartes-mwangaza.html`.
-- Suite : partie ① c (cartes), puis ② écrans.
+- Choix validés : photo de l'élève sur la carte même sans consentement ; matricule sans section, avec clé de contrôle (MAT.1) ; profils au lot 12 (PROF.1). Ajouts : bleu Mwangaza et son relief sur les cartes, pas de carte sans photo si l'école l'exige, séance photo par classe (`gestion/cartes-seance-photo.html`), son, vibration et écran allumé réglables par appareil.
+- Suite : partie ① c (cartes), puis ② écrans ; bibliothèque de lecture QR à valider (`A-FAIRE.md`).
 
 ### 2026-11-06 — Lot 9 : Emploi du temps fini et IA
 - Fait : horaire des épreuves (publié, notifié, PDF, lu par enseignants et Portail) ; heures prestées (exceptions, total du mois à la demande, fiche PDF, Excel) ; IA : lecture d'un bulletin, assistant de questions (liste fermée, aucune donnée d'élève), brouillons d'annonces ; 3 articles d'aide fr/en.
